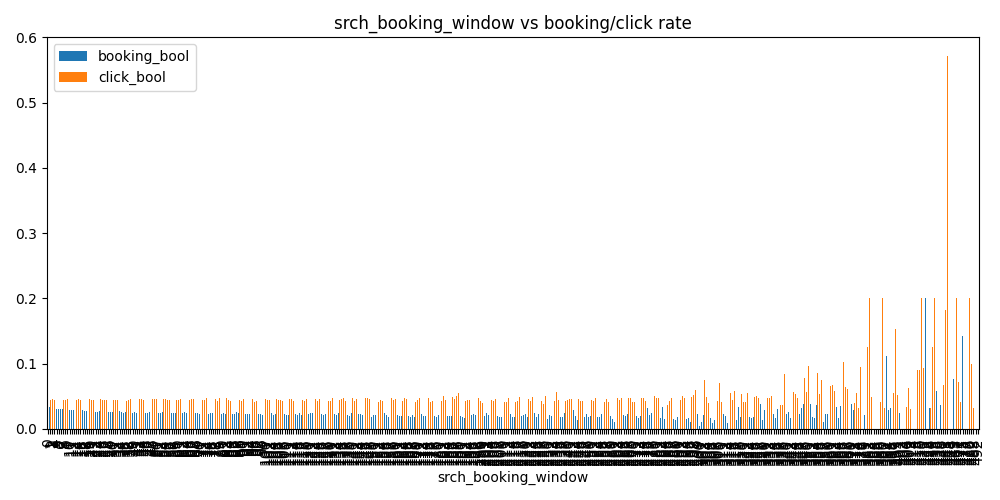
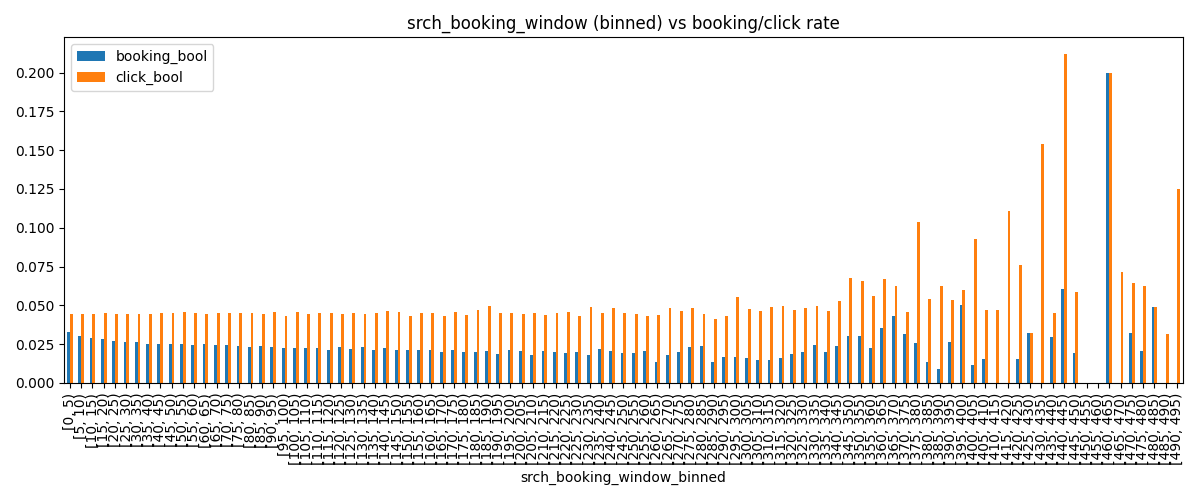
add imputing strategy and feature engineering

diff --git a/2/data_impute_and_fe/process_A_srch.py b/2/data_impute_and_fe/process_A_srch.py
@@ -1,0 +1,53 @@
+import pandas as pd
+
+def process_search_behavior_features(df: pd.DataFrame, drop_raw_columns: bool = True) -> pd.DataFrame:
+    df_out = df.copy()
+
+    # -- 分箱1: 预计停留天数 (srch_length_of_stay) --
+    stay_bins = [0, 1, 3, 5, 7, 10, 15, 30, 45, 60]
+    stay_labels = [
+        "1_day", "2-3", "4-5", "6-7", "8-10",
+        "11-15", "16-30", "31-45", "46_plus"
+    ]
+    df_out["stay_length_label"] = pd.cut(
+        df_out["srch_length_of_stay"],
+        bins=stay_bins,
+        labels=stay_labels,
+        right=False,
+        include_lowest=True
+    )
+
+    # -- 分箱2: 提前预定天数 (srch_booking_window) --
+    booking_bins = [-1, 0, 3, 7, 14, 30, 90, 180, 420, 460, 500]
+    booking_labels = [
+        "same_day", "1-3", "4-7", "8-14", "15-30",
+        "31-90", "91-180", "181-420", "421-460", "460_plus"
+    ]
+    df_out["booking_window_label"] = pd.cut(
+        df_out["srch_booking_window"],
+        bins=booking_bins,
+        labels=booking_labels,
+        right=False,
+        include_lowest=True
+    )
+
+    # 删除原始列（可选）
+    if drop_raw_columns:
+        df_out.drop(columns=["srch_length_of_stay", "srch_booking_window"], inplace=True)
+
+
+    return df_out
+
+if __name__ == "__main__":
+    import pandas as pd
+    from pathlib import Path
+
+    CSV_PATH = "../dmt-2025-2nd-assignment/training_set_VU_DM.csv"
+    OUT_DIR = Path("split_outputs")
+    OUT_DIR.mkdir(exist_ok=True)
+
+    df = pd.read_csv(CSV_PATH, nrows=100_000)
+    df_a_clean = process_search_behavior_features(df, drop_raw_columns=True)
+    df_a_clean.to_csv(OUT_DIR / "processed_A.csv", index=False)
+
+    print("✅ Processed A class features and saved to split_outputs/processed_A.csv")

diff --git a/2/data_impute_and_fe/process_B_prop.py b/2/data_impute_and_fe/process_B_prop.py
@@ -18,9 +18,9 @@ def process_hotel_features(df: pd.DataFrame, drop_raw_columns: bool = True) -> p
             return "no_review"
         elif x <= 2.0:
             return "low"
-        elif x <= 3.5:
+        elif x <3.5:    # [2.0 - 3.5) 中分段
             return "medium"
-        elif x <= 4.5:
+        elif x <= 4.5:  # [3.5 - 4.5] 高分段
             return "high"
         else:
             return "very_high"
@@ -39,9 +39,23 @@ def process_hotel_features(df: pd.DataFrame, drop_raw_columns: bool = True) -> p
     df_processed["query_affinity_missing"] = df_processed["srch_query_affinity_score"].isnull().astype(int)
     # df_processed["srch_query_affinity_score"] = df_processed["srch_query_affinity_score"].fillna(-999) # 值很小意味着没有曝光
 
-    # ---------- 4. 删除原始字段（可选） ----------
+    # ---------- 4. prop_log_historical_price 分类映射 ----------
+    def map_price_level(x):
+        if x == 0:
+            return "zero"
+        elif x < 3:
+            return "very_low"
+        elif x < 4.5:
+            return "low"
+        elif x < 5.5:
+            return "mid"
+        else:
+            return "high"
+    df_processed["historical_price_level"] = df_processed["prop_log_historical_price"].apply(map_price_level)
+
+    # ---------- 5. 删除原始字段（可选） ----------
     if drop_raw_columns:
-        cols_to_drop = ["prop_review_score", "prop_location_score2", "srch_query_affinity_score"]
+        cols_to_drop = ["prop_review_score", "prop_location_score2", "srch_query_affinity_score", "prop_log_historical_price"]
         existing = [col for col in cols_to_drop if col in df_processed.columns]
         df_processed.drop(columns=existing, inplace=True)
 

diff --git a/2/data_impute_and_fe/process_C_price.py b/2/data_impute_and_fe/process_C_price.py
@@ -1,0 +1,44 @@
+import pandas as pd
+import numpy as np
+
+def process_price_feature(df: pd.DataFrame, drop_raw_columns: bool = True) -> pd.DataFrame:
+    """
+    对 C 类字段中的 price_usd 进行区间分箱和标签化。
+    默认删除原始 price_usd 列（可配置）。
+    """
+    df_out = df.copy()
+
+    # 定义分箱边界与标签
+    price_bins = [-1, 60, 80, 100, 140, 200, 300, np.inf]
+    price_labels = [
+        "very_cheap", "cheap", "sweet_spot", "mid_price",
+        "expensive", "very_expensive", "luxury"
+    ]
+
+    # 价格区间映射
+    df_out["price_level"] = pd.cut(
+        df_out["price_usd"],
+        bins=price_bins,
+        labels=price_labels,
+        right=False,  # 区间左闭右开
+        include_lowest=True
+    )
+
+    if drop_raw_columns:
+        df_out.drop(columns=["price_usd"], inplace=True)
+
+    return df_out
+
+if __name__ == "__main__":
+    import pandas as pd
+    from pathlib import Path
+
+    CSV_PATH = "../dmt-2025-2nd-assignment/training_set_VU_DM.csv"
+    OUT_DIR = Path("split_outputs")
+    OUT_DIR.mkdir(exist_ok=True)
+
+    df = pd.read_csv(CSV_PATH, nrows=100_000)
+    df_c_clean = process_price_feature(df, drop_raw_columns=True)
+    df_c_clean.to_csv(OUT_DIR / "processed_C.csv", index=False)
+
+    print("✅ Processed C class features and saved to split_outputs/processed_C.csv")

diff --git a/2/data_impute_and_fe/process_D_user.py b/2/data_impute_and_fe/process_D_user.py
@@ -1,0 +1,30 @@
+import pandas as pd
+
+### 1 直接用中位值填充缺失（分布数据的中位值）
+### 2 聚类或分类用户 → 用邻近类中有值者均值填充（相同的srch等其他类字段代表了相同的用户，所以直接赋值）KMeans 建议放到后期优化中尝试
+### 3 仅构造 is_new_user 标志 + 保留原字段为空 最快的baseline方案，本次采用
+def process_new_user(df: pd.DataFrame, drop_raw_columns: bool = False) -> pd.DataFrame:
+    df_out = df.copy()
+    df_out.drop(columns=["visitor_location_country_id"], inplace=True)
+
+    # 判断是否新用户（两列都缺失）
+    df_out["is_new_user"] = (
+        df_out["visitor_hist_starrating"].isnull() &
+        df_out["visitor_hist_adr_usd"].isnull()
+    ).astype(int)
+
+    return df_out
+
+if __name__ == "__main__":
+    import pandas as pd
+    from pathlib import Path
+
+    CSV_PATH = "../dmt-2025-2nd-assignment/training_set_VU_DM.csv"
+    OUT_DIR = Path("split_outputs")
+    OUT_DIR.mkdir(exist_ok=True)
+
+    df = pd.read_csv(CSV_PATH, nrows=100_000)
+    df_d_clean = process_new_user(df, drop_raw_columns=False)
+    df_d_clean.to_csv(OUT_DIR / "processed_D.csv", index=False)
+
+    print("✅ Processed D class (user info) and saved to split_outputs/processed_D.csv")

diff --git a/2/eda/eda_A_srch.py b/2/eda/eda_A_srch.py
@@ -61,11 +61,20 @@ for col in cat_cols:
     plt.savefig(os.path.join(SAVE_DIR, f"{col}_freq.png"))
     plt.close()
 
-# --- 分组 booking/click 概率分析 ---
+# --- 分组 booking/click 概率分析（带分箱） ---
 print("Plotting booking/click groupby average...")
 for col in num_cols + cat_cols:
-    grp = df.groupby(col)[["booking_bool", "click_bool"]].mean()
-    grp.plot(kind="bar", figsize=(10, 5), title=f"{col} vs booking/click rate")
+    plot_col = col  # 默认用原始列名
+    max_val = df[col].max()
+    step = 5  # 每5天一个段
+    bin_edges = list(range(0, int(max_val) + step, step))
+    bin_col = f"{col}_binned"
+    df[bin_col] = pd.cut(df[col], bins=bin_edges, right=False)
+    # df[bin_col] = pd.cut(df[col], bins=30)  # 分30个箱
+    plot_col = bin_col
+
+    grp = df.groupby(plot_col)[["booking_bool", "click_bool"]].mean()
+    grp.plot(kind="bar", figsize=(12, 5), title=f"{col} (binned) vs booking/click rate")
     plt.tight_layout()
     plt.savefig(os.path.join(SAVE_DIR, f"{col}_target_relation.png"))
     plt.close()

diff --git a/2/eda/eda_B_prop.py b/2/eda/eda_B_prop.py
@@ -55,8 +55,15 @@ for col in cat_cols:
 # --- booking/click 分组分析 ---
 print("Plotting feature vs target relations...")
 for col in num_cols + cat_cols:
-    grp = df.groupby(col)[["booking_bool", "click_bool"]].mean()
-    grp.plot(kind="bar", figsize=(10, 5), title=f"{col} vs booking/click rate")
+    plot_col = col  # 默认用原始列名
+    # 针对连续数值型列进行分箱
+    bin_col = f"{col}_binned"
+    df[bin_col] = pd.cut(df[col], bins=30)  # 分30个箱
+    plot_col = bin_col
+
+    grp = df.groupby(plot_col)[["booking_bool", "click_bool"]].mean()
+
+    grp.plot(kind="bar", figsize=(10, 5), title=f"{plot_col} binned vs booking/click rate")
     plt.tight_layout()
     plt.savefig(os.path.join(SAVE_DIR, f"{col}_target_relation.png"))
     plt.close()

diff --git a/2/data_impute_and_fe/process_E_distance.py b/2/data_impute_and_fe/process_E_distance.py
@@ -1,0 +1,10 @@
+import pandas as pd
+import numpy as np
+
+def process_distance_feature(df: pd.DataFrame, drop_raw_columns: bool = True) -> pd.DataFrame:
+    df_out = df.copy()
+
+    if drop_raw_columns:
+        df_out.drop(columns=["orig_destination_distance"], inplace=True)
+
+    return df_out

diff --git a/2/data_impute_and_fe/process_F_random.py b/2/data_impute_and_fe/process_F_random.py
@@ -1,0 +1,10 @@
+import pandas as pd
+import numpy as np
+
+def process_random_feature(df: pd.DataFrame, drop_raw_columns: bool = True) -> pd.DataFrame:
+    df_out = df.copy()
+
+    if drop_raw_columns:
+        df_out.drop(columns=["random_bool"], inplace=True)
+
+    return df_out
